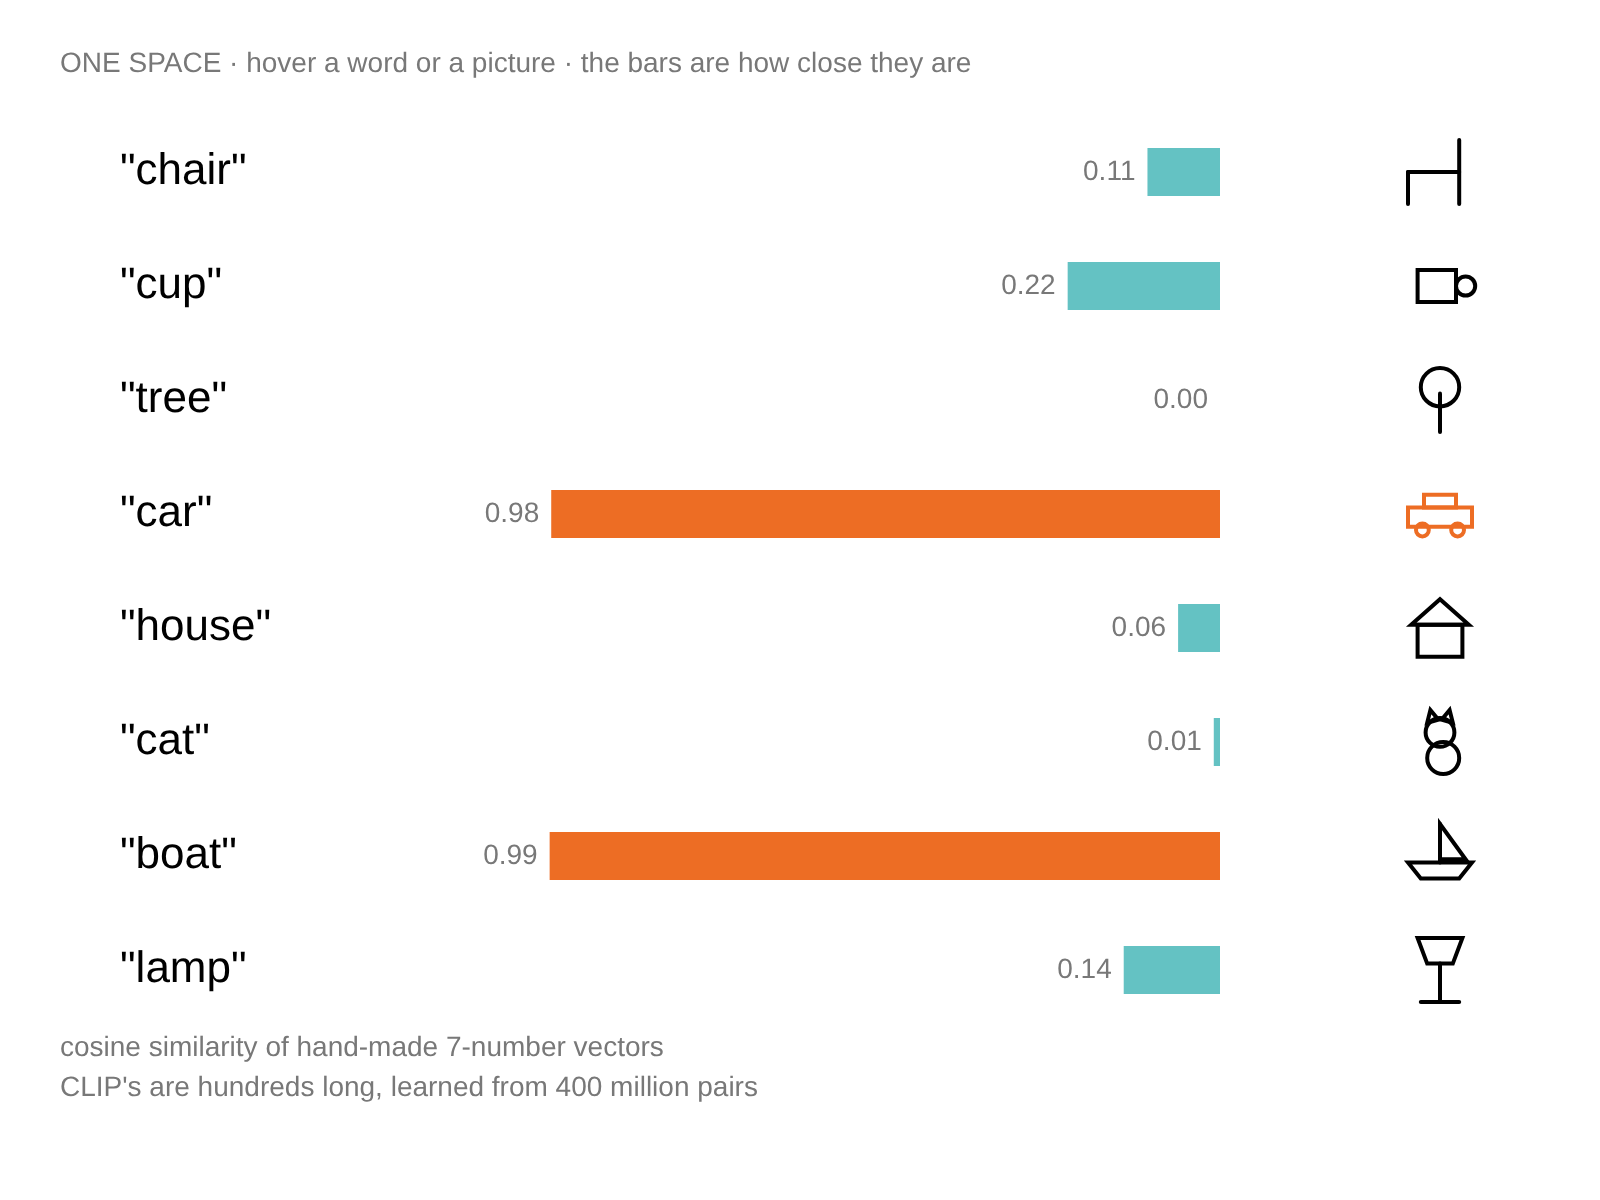
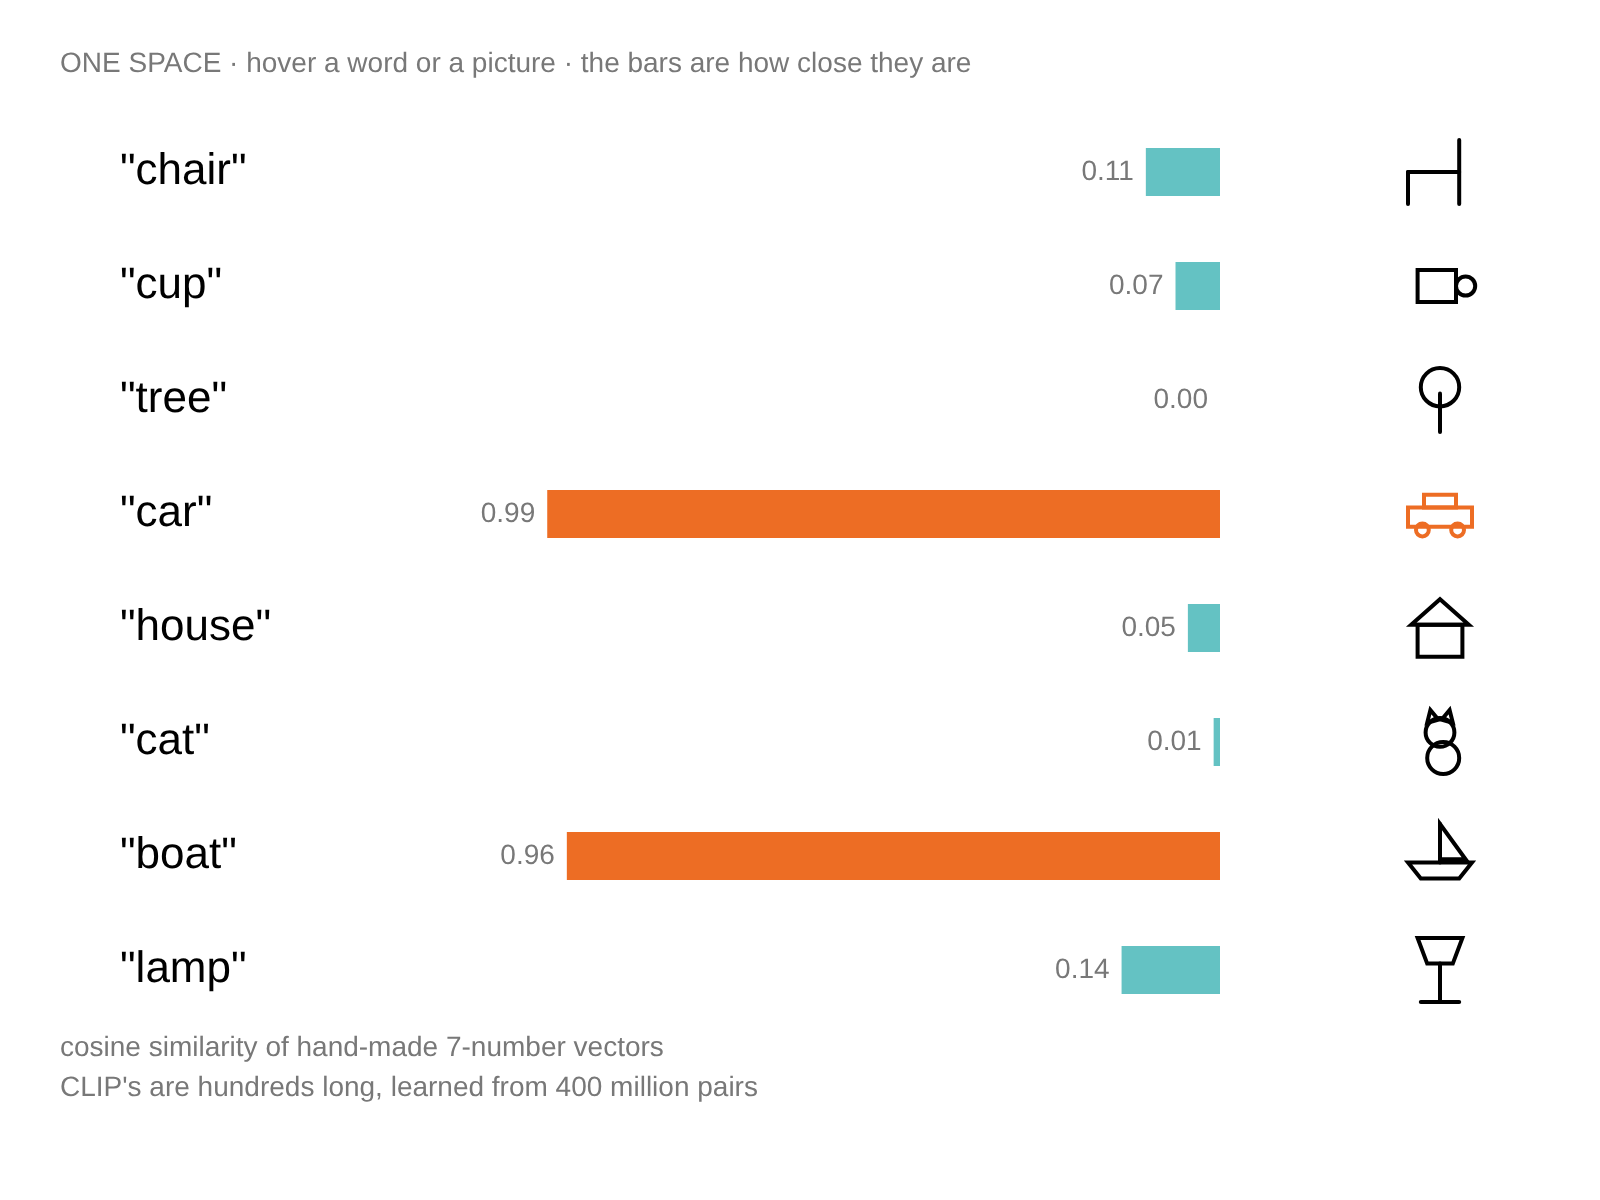
Checkpoint: review fixes in progress (week 4 and following)
Work in progress from the per-week build; the verified state follows in later commits.

Claude-Session: https://claude.ai/code/session_01RdFxTgrpAFbL82dNscS9CL

diff --git a/deck/week04.py b/deck/week04.py
@@ -102,10 +102,12 @@ function mousePressed() {         // a click on the top line: another example
 
 # Appended to the sketch page only. The page forwards the deck's keys (space, S, O, F; R reloads) to reveal.js unless
 # the sketch has claimed them; p5 claims them too late (keyPressed runs after the forwarder), so typed keys are claimed
-# here in the capture phase: 'a poster' stays in the sketch, and the arrows and Escape still reach the deck.
+# here in the capture phase: 'a poster' stays in the sketch, and the arrows and Escape still reach the deck. On its own
+# page (the Sketchbook) the title bar promises 'R restarts'; here R is a letter to type, so that promise is dropped.
 TOKENS_EXTRA = """window.addEventListener('keydown', e => {
   if (!e.metaKey && !e.ctrlKey && !e.altKey && (e.key.length === 1 || e.key === 'Backspace' || e.key === 'Delete')) e.preventDefault();
-}, true);"""
+}, true);
+(function () { var b = document.querySelector('#bar span'); if (b) b.textContent = b.textContent.replace(' · R restarts', ''); })();"""
 
 # (b) a bigram machine: the next word depends on the last one — a Markov chain, like Nake's, with a temperature dial
 NEXT_TEXT = ('a designer writes a brief . a model writes a draft . the brief is a rule and the draft is a guess . '

diff --git a/deck/week05.py b/deck/week05.py
@@ -119,7 +119,7 @@ const NAMES = ['chair', 'cup', 'tree', 'car', 'house', 'cat', 'boat', 'lamp'];
 // hand-made vectors: [furniture, vessel, living, vehicle, building, light, animal]
 const WORD = [[1, 0, 0, 0, .1, 0, 0], [.1, 1, 0, 0, 0, 0, 0], [0, 0, 1, 0, .1, 0, 0], [0, .1, 0, 1, 0, .2, 0],
   [.2, .1, 0, 0, 1, .2, 0], [.1, 0, .6, 0, 0, 0, 1], [0, .3, 0, 1, 0, 0, 0], [.5, 0, 0, 0, .2, 1, 0]];
-const PIC = [[.9, .1, 0, 0, .2, 0, 0], [.2, .9, 0, 0, 0, 0, 0], [0, 0, .9, 0, .2, 0, .1], [.1, .2, 0, .9, 0, .1, 0],
+const PIC = [[.9, .1, 0, 0, .2, 0, 0], [.2, .9, 0, 0, 0, 0, 0], [0, 0, .9, 0, .2, 0, .1], [.1, .05, 0, .9, 0, .1, 0],
   [.3, .1, 0, 0, .9, .1, 0], [.1, 0, .5, 0, 0, 0, .9], [0, .4, 0, .8, 0, 0, 0], [.4, 0, 0, 0, .3, .9, 0]];
 
 function cosine(a, b) {            // how alike two lists of numbers point
